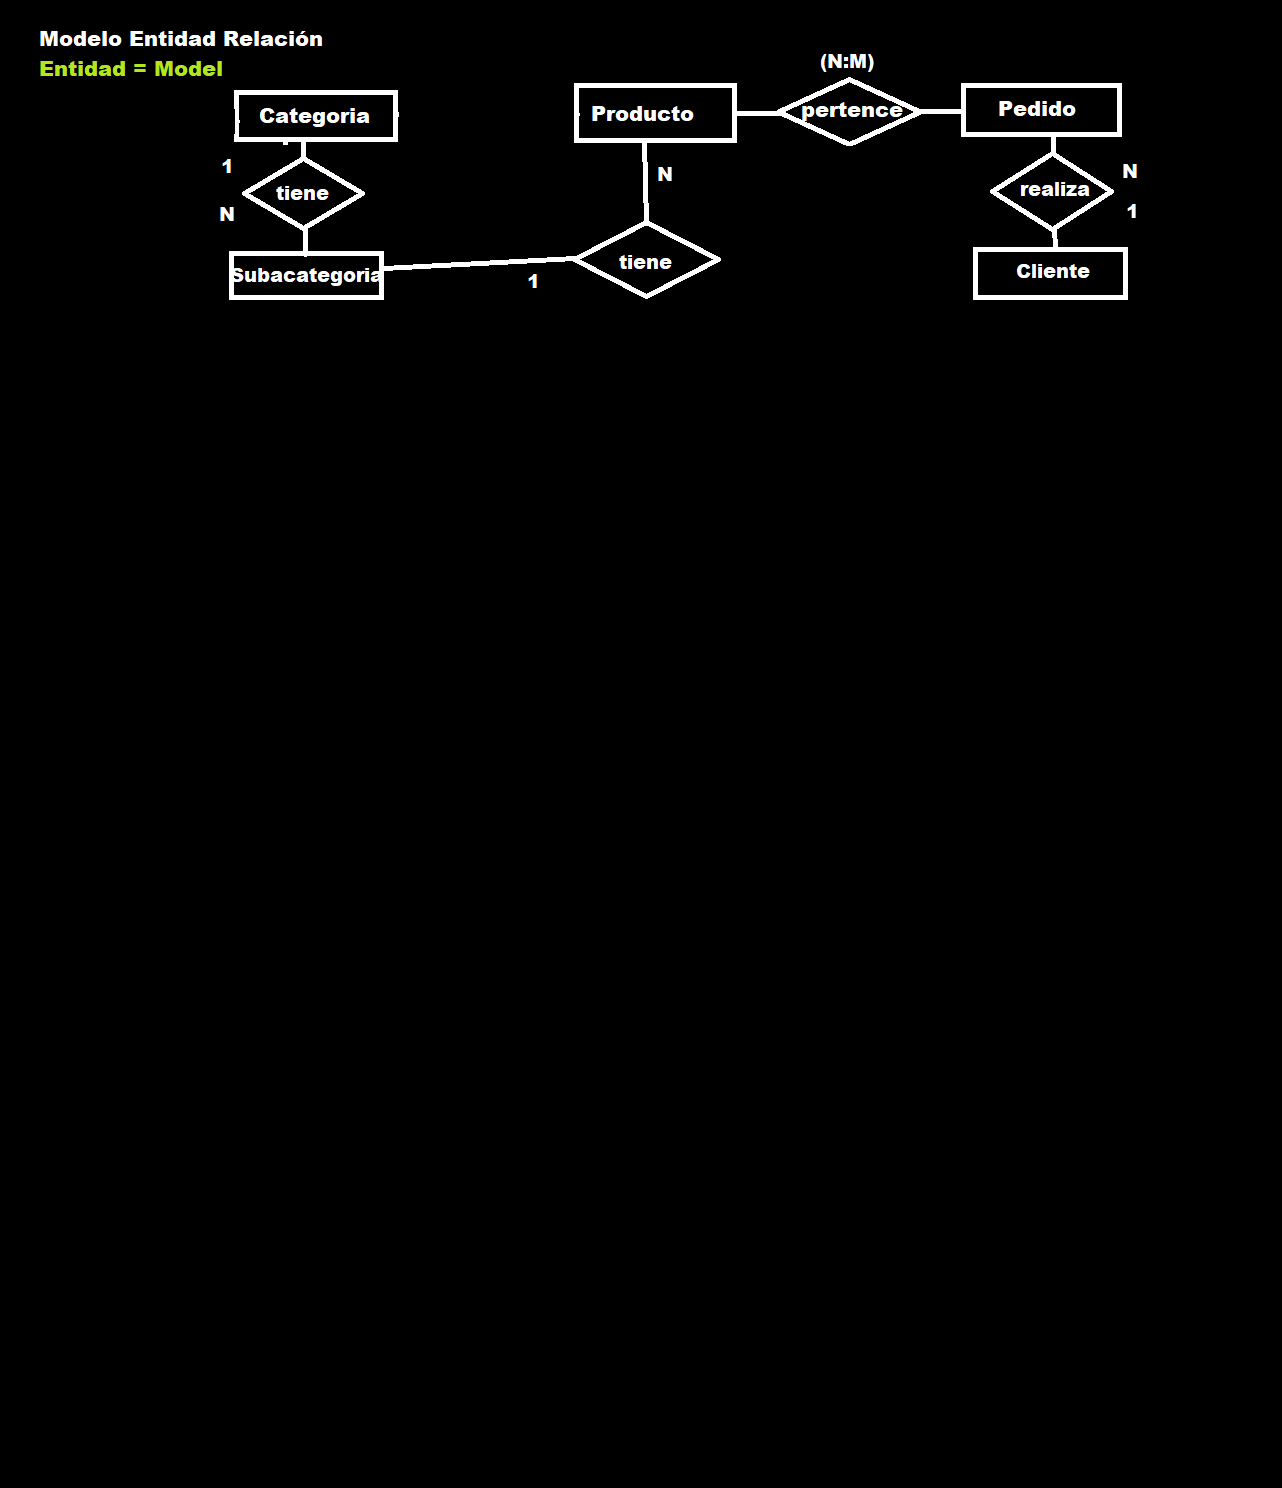
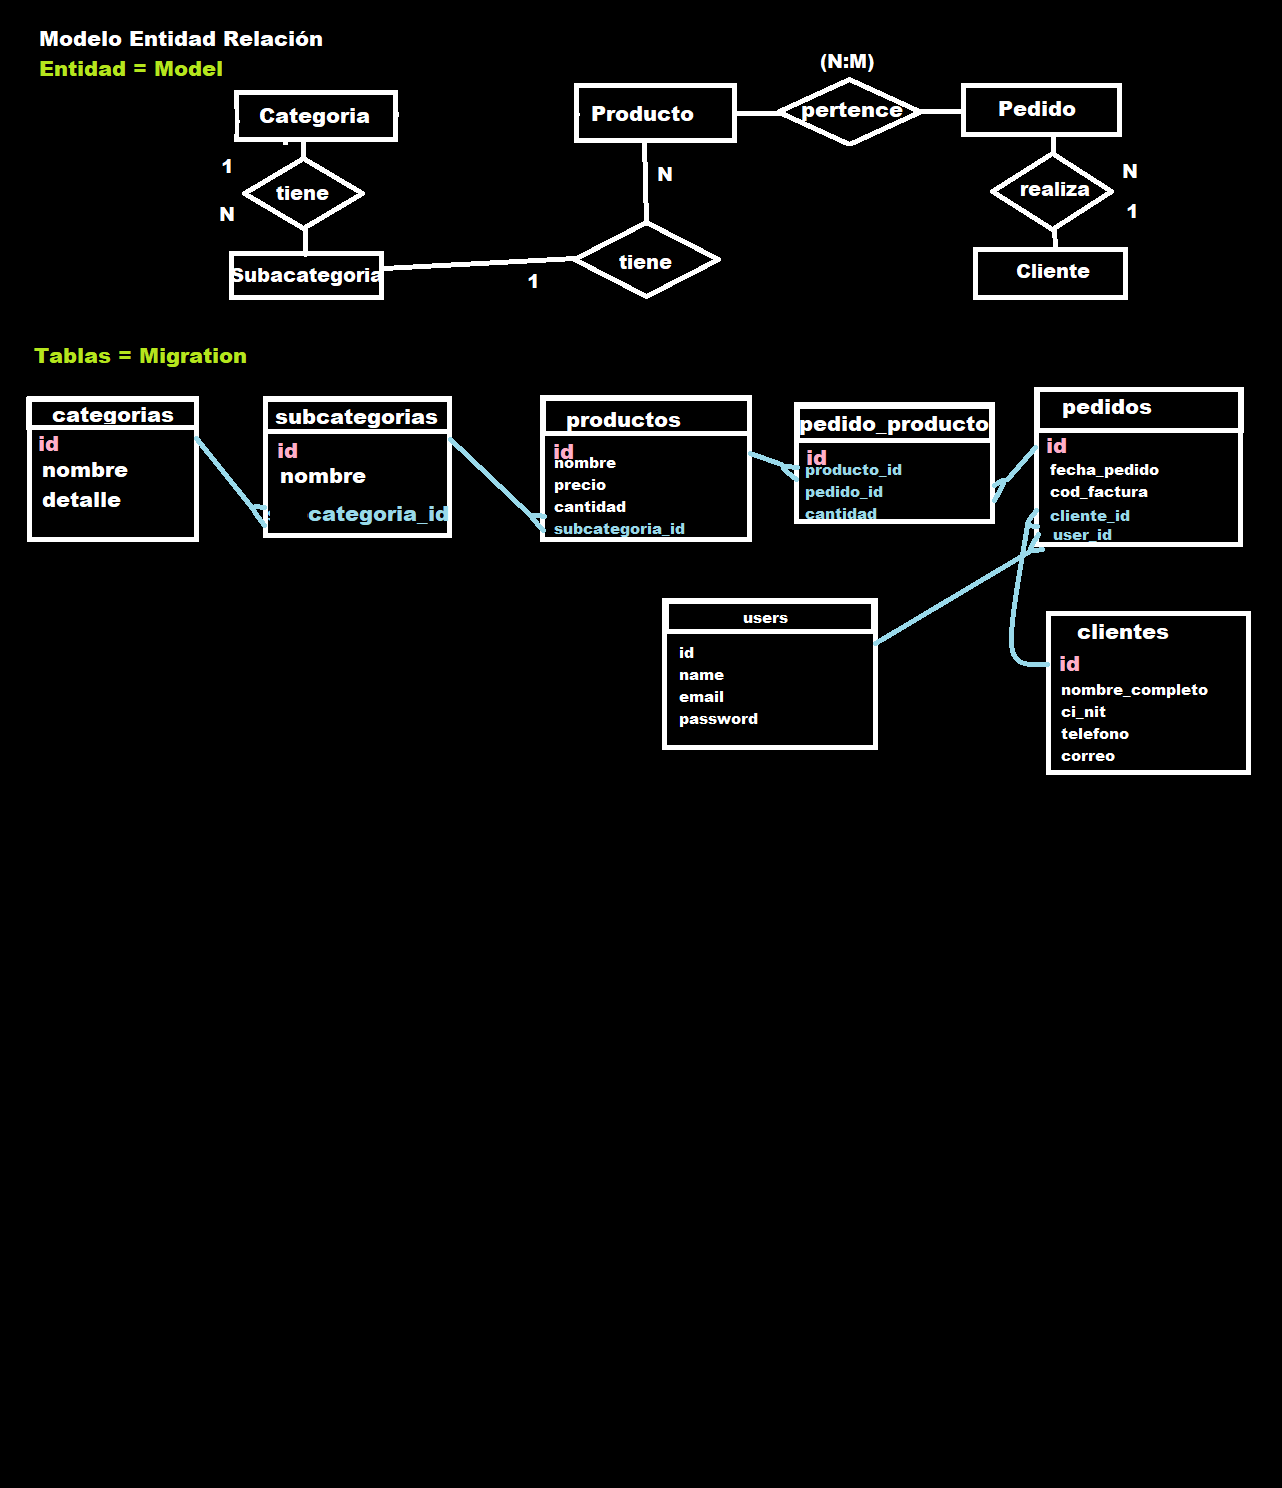
Models, migraciones y Categoria

Changed region(s): [[0.0, 0.2164, 0.9984, 0.5255], [0.4992, 0.4019, 0.7488, 0.5255]]

diff --git a/app/Http/Controllers/CategoriaController.php b/app/Http/Controllers/CategoriaController.php
@@ -1,0 +1,76 @@
+<?php
+
+namespace App\Http\Controllers;
+
+use Illuminate\Http\Request;
+use App\Models\Categoria;
+
+class CategoriaController extends Controller
+{
+    /**
+     * Display a listing of the resource.
+     *
+     * @return \Illuminate\Http\Response
+     */
+    public function index()
+    {
+        $lista_categorias = Categoria::all();
+        return response()->json($lista_categorias);
+    }
+
+    /**
+     * Store a newly created resource in storage.
+     *
+     * @param  \Illuminate\Http\Request  $request
+     * @return \Illuminate\Http\Response
+     */
+    public function store(Request $request)
+    {
+        // validar
+        $request->validate([
+            "nombre" => "required|unique:categorias|min:3|max:50",
+            "detalle" => "string"
+        ]);
+        // guardar
+        $categoria = new Categoria;
+        $categoria->nombre = $request->nombre;
+        $categoria->detalle = $request->detalle;
+        $categoria->save();
+
+        return response()->json(["mensaje" => "Categoria Registrada", "data" => $categoria], 201);
+    }
+
+    /**
+     * Display the specified resource.
+     *
+     * @param  int  $id
+     * @return \Illuminate\Http\Response
+     */
+    public function show($id)
+    {
+        //
+    }
+
+    /**
+     * Update the specified resource in storage.
+     *
+     * @param  \Illuminate\Http\Request  $request
+     * @param  int  $id
+     * @return \Illuminate\Http\Response
+     */
+    public function update(Request $request, $id)
+    {
+        //
+    }
+
+    /**
+     * Remove the specified resource from storage.
+     *
+     * @param  int  $id
+     * @return \Illuminate\Http\Response
+     */
+    public function destroy($id)
+    {
+        //
+    }
+}

diff --git a/app/Http/Controllers/SubcategoriaController.php b/app/Http/Controllers/SubcategoriaController.php
@@ -1,0 +1,66 @@
+<?php
+
+namespace App\Http\Controllers;
+
+use Illuminate\Http\Request;
+use App\Models\Subcategoria;
+
+class SubcategoriaController extends Controller
+{
+    /**
+     * Display a listing of the resource.
+     *
+     * @return \Illuminate\Http\Response
+     */
+    public function index()
+    {
+        $lista_subcategorias = Subcategoria::get();
+        return response()->json($lista_subcategorias);
+
+    }
+
+    /**
+     * Store a newly created resource in storage.
+     *
+     * @param  \Illuminate\Http\Request  $request
+     * @return \Illuminate\Http\Response
+     */
+    public function store(Request $request)
+    {
+        //
+    }
+
+    /**
+     * Display the specified resource.
+     *
+     * @param  int  $id
+     * @return \Illuminate\Http\Response
+     */
+    public function show($id)
+    {
+        //
+    }
+
+    /**
+     * Update the specified resource in storage.
+     *
+     * @param  \Illuminate\Http\Request  $request
+     * @param  int  $id
+     * @return \Illuminate\Http\Response
+     */
+    public function update(Request $request, $id)
+    {
+        //
+    }
+
+    /**
+     * Remove the specified resource from storage.
+     *
+     * @param  int  $id
+     * @return \Illuminate\Http\Response
+     */
+    public function destroy($id)
+    {
+        //
+    }
+}

diff --git a/app/Http/Controllers/ProductoController.php b/app/Http/Controllers/ProductoController.php
@@ -1,0 +1,63 @@
+<?php
+
+namespace App\Http\Controllers;
+
+use Illuminate\Http\Request;
+
+class ProductoController extends Controller
+{
+    /**
+     * Display a listing of the resource.
+     *
+     * @return \Illuminate\Http\Response
+     */
+    public function index()
+    {
+        //
+    }
+
+    /**
+     * Store a newly created resource in storage.
+     *
+     * @param  \Illuminate\Http\Request  $request
+     * @return \Illuminate\Http\Response
+     */
+    public function store(Request $request)
+    {
+        //
+    }
+
+    /**
+     * Display the specified resource.
+     *
+     * @param  int  $id
+     * @return \Illuminate\Http\Response
+     */
+    public function show($id)
+    {
+        //
+    }
+
+    /**
+     * Update the specified resource in storage.
+     *
+     * @param  \Illuminate\Http\Request  $request
+     * @param  int  $id
+     * @return \Illuminate\Http\Response
+     */
+    public function update(Request $request, $id)
+    {
+        //
+    }
+
+    /**
+     * Remove the specified resource from storage.
+     *
+     * @param  int  $id
+     * @return \Illuminate\Http\Response
+     */
+    public function destroy($id)
+    {
+        //
+    }
+}

diff --git a/app/Http/Controllers/ClienteController.php b/app/Http/Controllers/ClienteController.php
@@ -1,0 +1,63 @@
+<?php
+
+namespace App\Http\Controllers;
+
+use Illuminate\Http\Request;
+
+class ClienteController extends Controller
+{
+    /**
+     * Display a listing of the resource.
+     *
+     * @return \Illuminate\Http\Response
+     */
+    public function index()
+    {
+        //
+    }
+
+    /**
+     * Store a newly created resource in storage.
+     *
+     * @param  \Illuminate\Http\Request  $request
+     * @return \Illuminate\Http\Response
+     */
+    public function store(Request $request)
+    {
+        //
+    }
+
+    /**
+     * Display the specified resource.
+     *
+     * @param  int  $id
+     * @return \Illuminate\Http\Response
+     */
+    public function show($id)
+    {
+        //
+    }
+
+    /**
+     * Update the specified resource in storage.
+     *
+     * @param  \Illuminate\Http\Request  $request
+     * @param  int  $id
+     * @return \Illuminate\Http\Response
+     */
+    public function update(Request $request, $id)
+    {
+        //
+    }
+
+    /**
+     * Remove the specified resource from storage.
+     *
+     * @param  int  $id
+     * @return \Illuminate\Http\Response
+     */
+    public function destroy($id)
+    {
+        //
+    }
+}

diff --git a/app/Http/Controllers/PedidoController.php b/app/Http/Controllers/PedidoController.php
@@ -1,0 +1,63 @@
+<?php
+
+namespace App\Http\Controllers;
+
+use Illuminate\Http\Request;
+
+class PedidoController extends Controller
+{
+    /**
+     * Display a listing of the resource.
+     *
+     * @return \Illuminate\Http\Response
+     */
+    public function index()
+    {
+        //
+    }
+
+    /**
+     * Store a newly created resource in storage.
+     *
+     * @param  \Illuminate\Http\Request  $request
+     * @return \Illuminate\Http\Response
+     */
+    public function store(Request $request)
+    {
+        //
+    }
+
+    /**
+     * Display the specified resource.
+     *
+     * @param  int  $id
+     * @return \Illuminate\Http\Response
+     */
+    public function show($id)
+    {
+        //
+    }
+
+    /**
+     * Update the specified resource in storage.
+     *
+     * @param  \Illuminate\Http\Request  $request
+     * @param  int  $id
+     * @return \Illuminate\Http\Response
+     */
+    public function update(Request $request, $id)
+    {
+        //
+    }
+
+    /**
+     * Remove the specified resource from storage.
+     *
+     * @param  int  $id
+     * @return \Illuminate\Http\Response
+     */
+    public function destroy($id)
+    {
+        //
+    }
+}

diff --git a/routes/api.php b/routes/api.php
@@ -4,7 +4,10 @@ use Illuminate\Http\Request;
 use Illuminate\Support\Facades\Route;
 
 use App\Http\Controllers\AuthController;
-
+use App\Http\Controllers\CategoriaController;
+use App\Http\Controllers\ClienteController;
+use App\Http\Controllers\PedidoController;
+use App\Http\Controllers\SubcategoriaController;
 
 Route::middleware('auth:sanctum')->get('/user', function (Request $request) {
     return $request->user();
@@ -27,4 +30,13 @@ Route::group([
 Route::get("/", function(){
     return "Saludos Humanos...";
 });
+
+
+Route::middleware(['auth:api'])->group(function () {
     
+    Route::apiResource("categoria", CategoriaController::class);
+    Route::apiResource("subcategoria", SubcategoriaController::class);
+    Route::apiResource("producto", ProductoController::class);
+    Route::apiResource("cliente", ClienteController::class);
+    Route::apiResource("pedido", PedidoController::class);
+});
